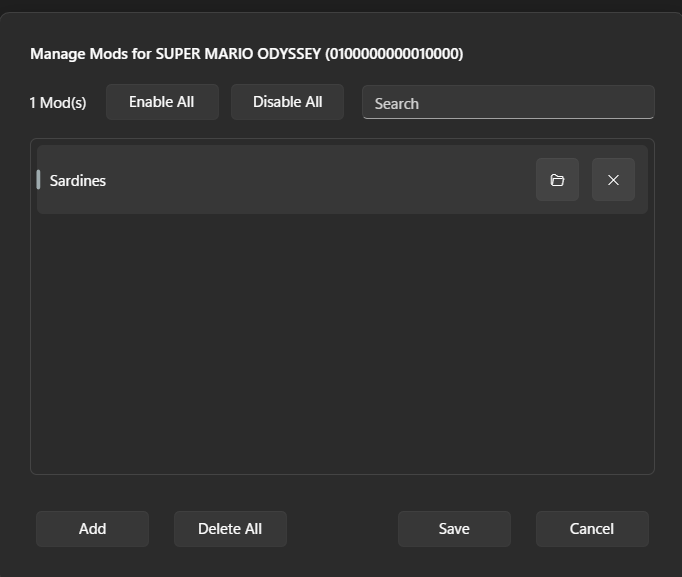
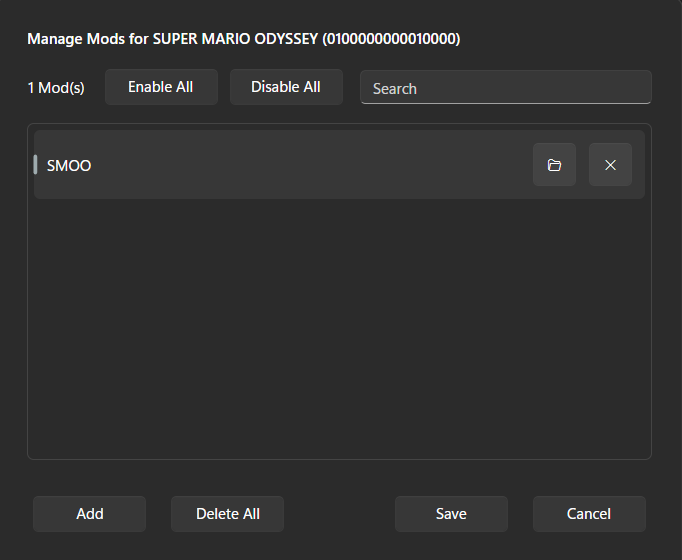
More instructions
more screenshots & writing

diff --git a/content/Play.md b/content/Play.md
@@ -64,10 +64,6 @@ To get started, make sure:
 ![Odyssey Downgrade Applet](/img/downgrade_applet.jpg)
 ::::
 
-::::alert{type="info"}
-This will take 6 GB of space on your sd card since it applies as a mod.
-::::
-
 ::::row{center}
 :::::c-card{description="Patch not installed"}
 ![Patch not installed](/img/downgrade_not_ready.jpg)
@@ -83,13 +79,29 @@ This will take 6 GB of space on your sd card since it applies as a mod.
 ::::
 
 ::::alert{type="info"}
+This will take 6 GB of space on your sd card since it applies as a mod.
+::::
+
+::::alert{type="info"}
 If SMO crashes on launch please remove & reinsert the cartridge & try again.
 ::::
 
 ### Installing SMOO
-temp
-:::
+::::alert{type="info"}
+Make sure you have access of your Switch's SD card.
+::::
 
+- There are 2 different ways to install SMOO please select *one* of them
+
+::::dropdown{title="Atmosphere"}
+temp
+::::
+
+::::dropdown{title="SimpleModManager"}
+temp
+::::
+
+:::
 
 :::dropdown{title="Playing on an emulator"}
 
@@ -108,7 +120,6 @@ Right-click Super Mario Odyssey and select `Open Mods Directory`
 Insert the extracted ZIP into the directory
 ![Ryu Folder](img/ryu_directory.png)
 :::::
-- Use the **Emulators.zip** of SMOO which include [Sardines](https://github.com/DaDev123/Super-Mario-Odyssey-Online-EXTENSIONS/releases/tag/Sardines) or [Freeze Tag](https://github.com/DaDev123/Super-Mario-Odyssey-Online-EXTENSIONS/releases/tag/Freeze.Tag) by [**Amethyst-szs**](https://github.com/Amethyst-szs).
 
 :::::c-card
 Enable SMOO in `Manage Mods`
@@ -122,15 +133,20 @@ Enable SMOO in `Manage Mods`
 
 :::::c-card
 Right-click Super Mario Odyssey and select `Configure Game`
-![Yuzu Config](img/yuzu-config.png)
+![Yuzu Config](img/yuzu_config.png)
 :::::
 
 :::::c-card
 Select `Import Mod from ZIP` 
-![Yuzu Import](img/yuzu-import.png)
+![Yuzu Import](img/yuzu_import.png)
 :::::
 
-- Use the **Emulators.zip** of SMOO which include [Sardines](https://github.com/DaDev123/Super-Mario-Odyssey-Online-EXTENSIONS/releases/tag/Sardines) or [Freeze Tag](https://github.com/DaDev123/Super-Mario-Odyssey-Online-EXTENSIONS/releases/tag/Freeze.Tag) by [**Amethyst-szs**](https://github.com/Amethyst-szs).
+:::::c-card
+Make sure that SMOO is enabled in `Configure Game`
+![Yuzu Mods](img/yuzu_mods.png)
+:::::
+
+- You are all set!
 ::::
 ::
 
@@ -151,6 +167,35 @@ Select `Import Mod from ZIP`
 ![SMOO Port](/img/smoo_port.jpg)
 :::::
 ::::
+
+:separator{label="Switching Servers"}
+
+
+- To switch servers go to `Online Server Settings`
+
+::::row{center}
+![SMOO Options](/img/smoo_options.jpg)
+::::
+
+- Then select these options
+
+::::row{center}
+:::::c-card{description="Change IP Address"}
+![SMOO IP Alt](/img/smoo_ip2.jpg)
+:::::
+
+:::::c-card{description="Change Server Port"}
+![SMOO Port Alt](/img/smoo_port2.jpg)
+:::::
+::::
+
+:::alert{type="critical" align="center"}
+[Never use the **RECONNECT TO SERVER** tab as it may result the game crashing or not working at all]{style="color: orange;"}
+:::
+
+- Once you're finished please close your game and relauch it to connect to the server.
+
+
 
 
 ::

diff --git a/content/FAQ.md b/content/FAQ.md
@@ -6,14 +6,19 @@ description: "Frequently asked questions and their solutions."
 > *There is an alternate FAQ available at https://smoo.it/#/faq*
 
 ::dropdown{title="How do I get SMOO?"}
-**Official release:**
+**Official Release:**
 <br />
 The latest official release of the mod can be found [here](https://github.com/CraftyBoss/SuperMarioOdysseyOnline/releases/latest).
 <br />
 <br />
-**Variations and gamemodes:**
+**Variations & gamemodes:**
 <br />
-Join the [Discord](https://discord.gg/fJ3nxa2r4a) and ask for a specific version such as **Freeze Tag**, usually we can direct you to it.
+You can get these other gamemodes by [**Amethyst-szs**](https://github.com/Amethyst-szs) which are [Sardines](https://github.com/DaDev123/Super-Mario-Odyssey-Online-EXTENSIONS/releases/tag/Sardines) or [Freeze Tag](https://github.com/DaDev123/Super-Mario-Odyssey-Online-EXTENSIONS/releases/tag/Freeze.Tag).
+<br />
+<br />
+**Other gamemodes:**
+<br />
+Join the [Discord](https://discord.gg/fJ3nxa2r4a) to ask for any other specific gamemodes, usually we can direct you to it.
 ::
 
 
